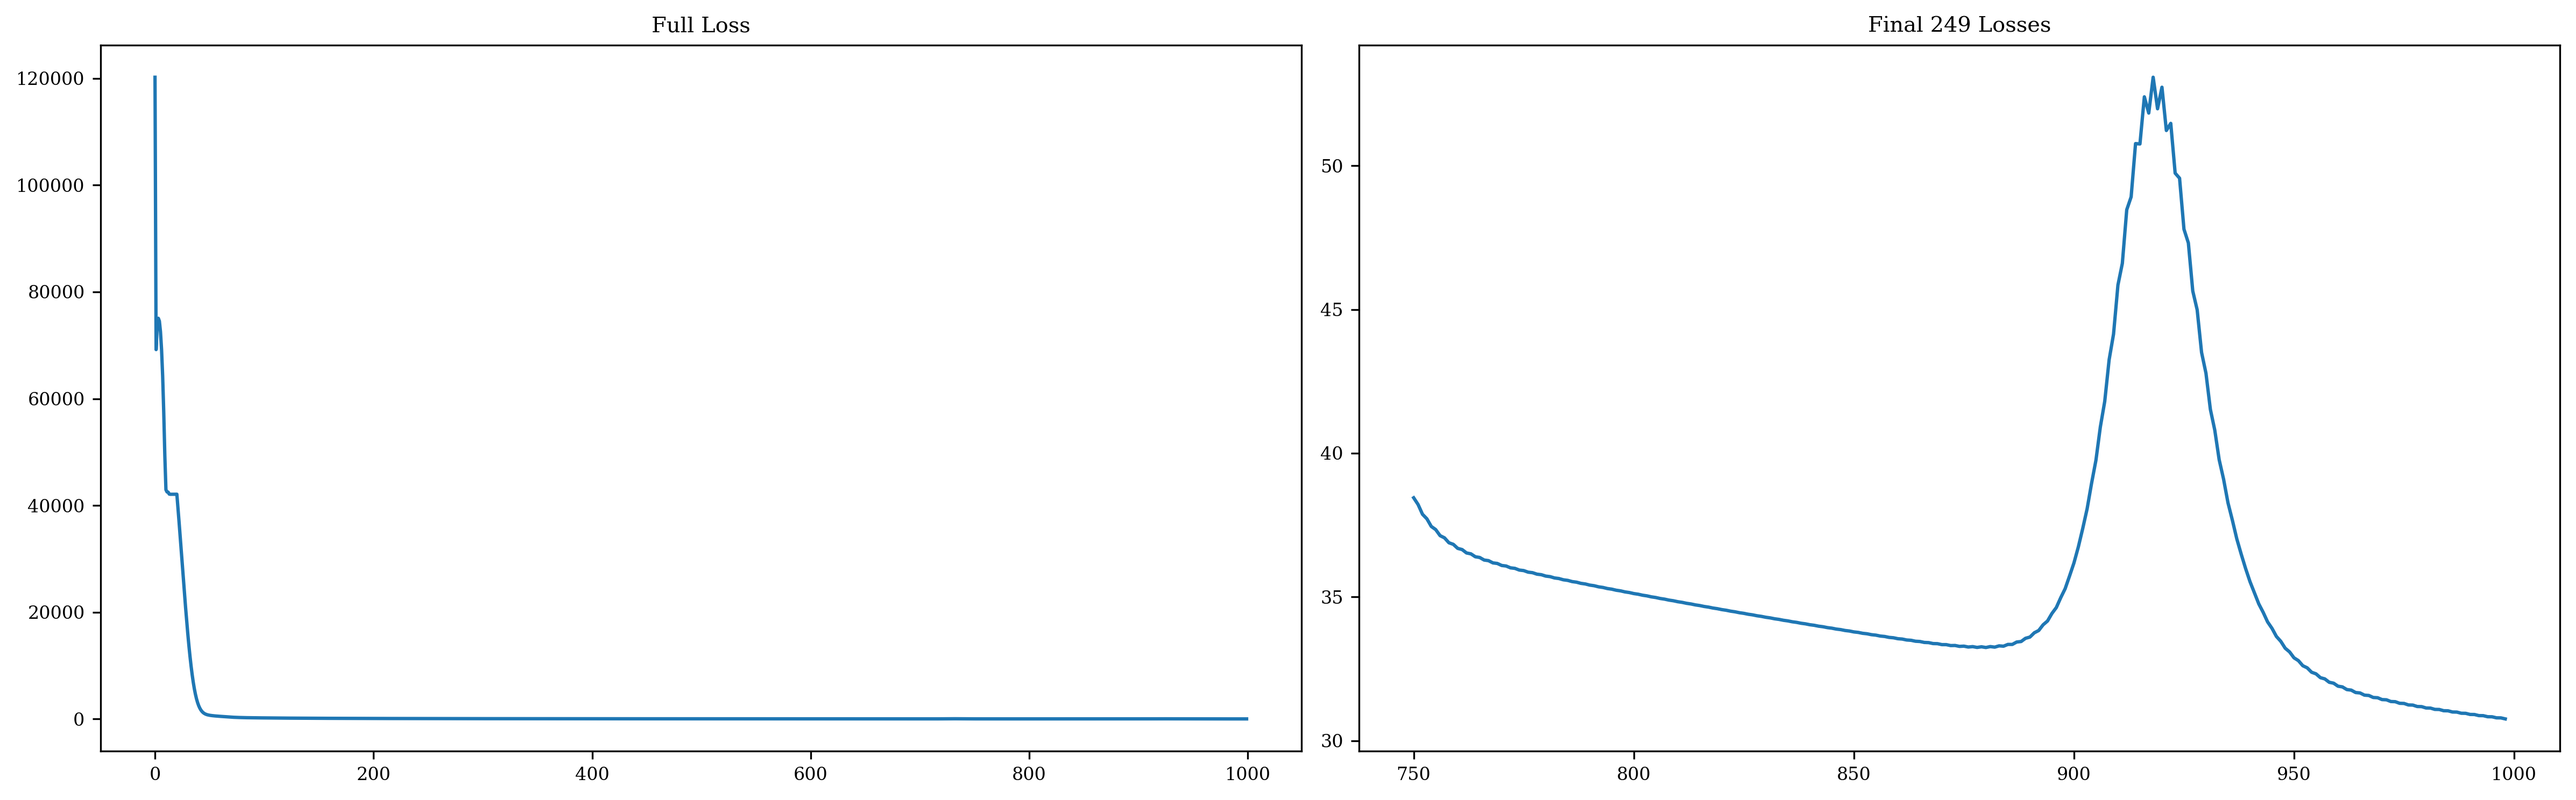
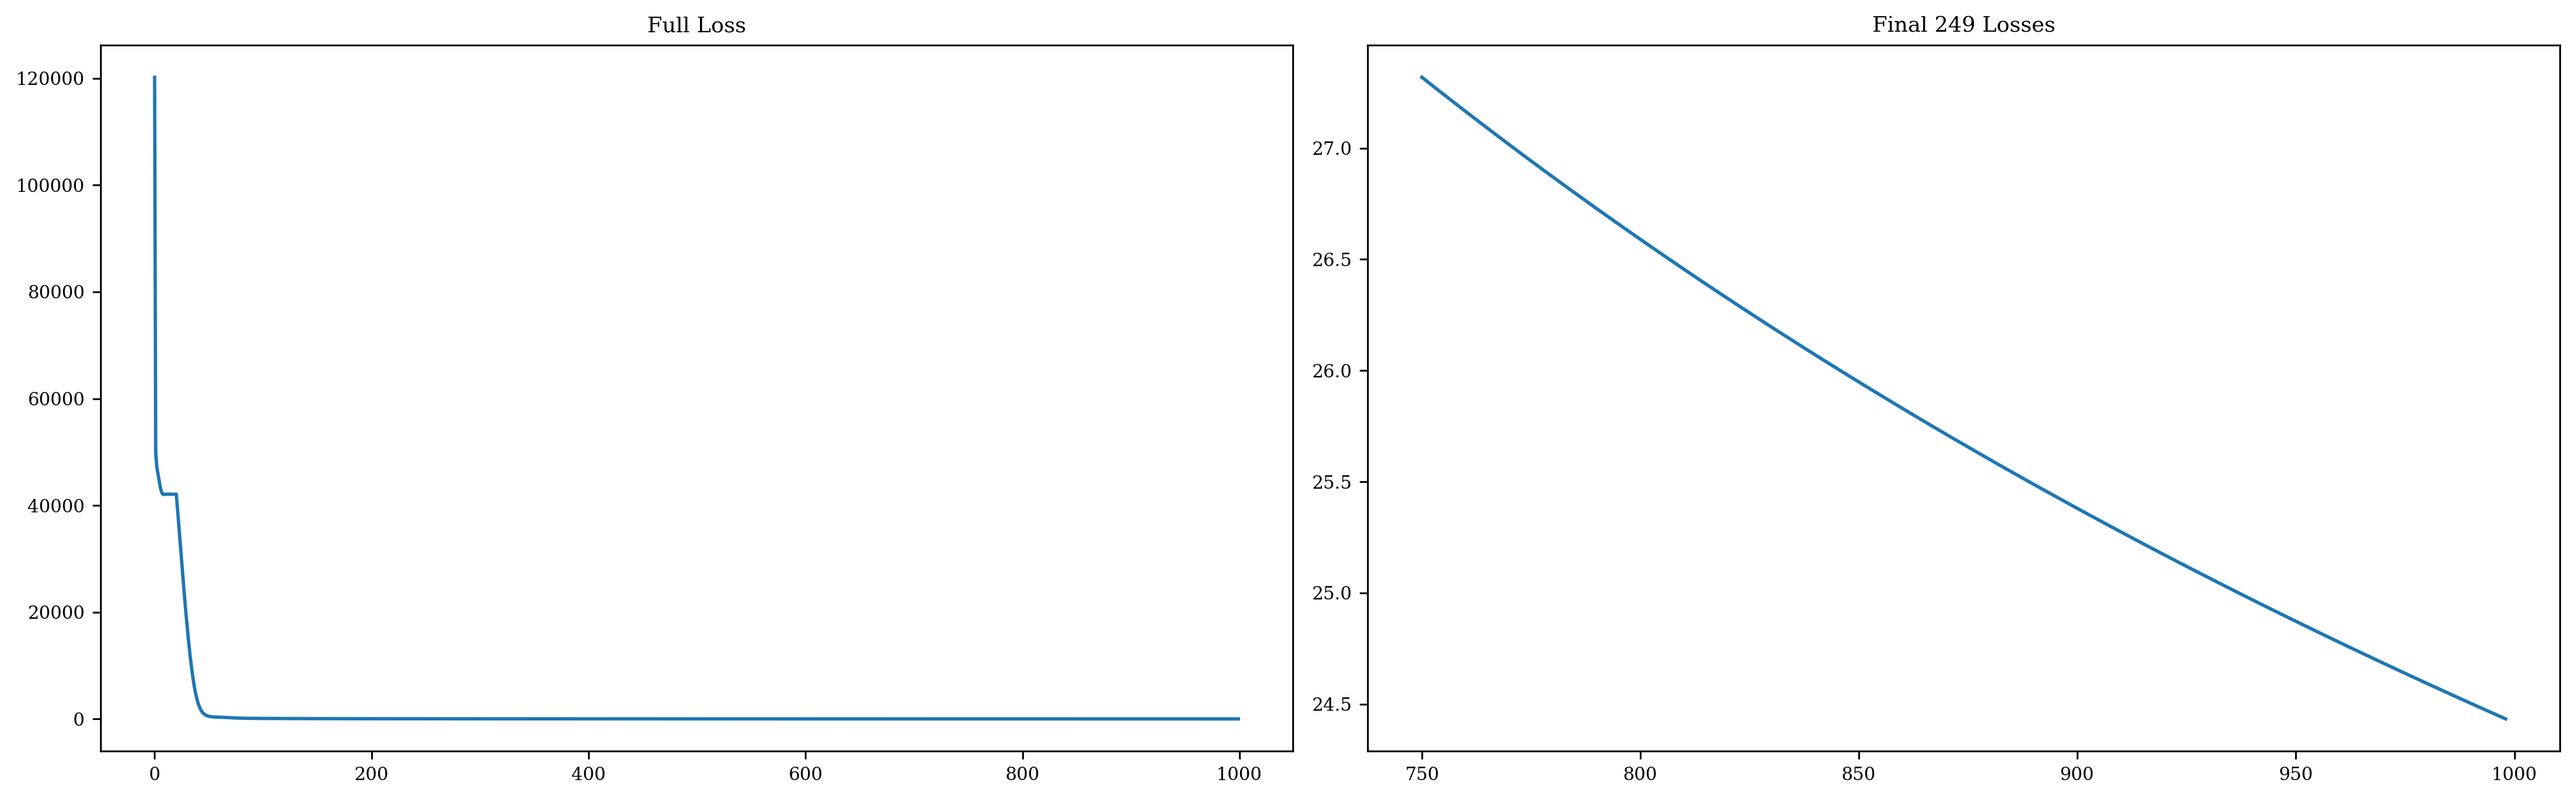
Example update

diff --git a/docs/examples/image_plane_fitting.md b/docs/examples/image_plane_fitting.md
@@ -252,7 +252,7 @@ For example, `sgd(lr=100, start=50)` will cause a parameter to start fitting aft
 ```python
 config = {
     "positions": sgd(lr=4e-2, start=0),
-    "fluxes": sgd(5e-2, 0),
+    "fluxes": sgd(2e-2, 0),
     "aberrations": sgd(5e0, 4),
     "spectra": sgd(1e-1, 10),
     "log_dist": adam(5e-2, 20),
@@ -271,7 +271,7 @@ Additionally, if the `spectra` parameter wanders outside of $[-1, 1]$, everythin
 ```python
 def norm_fn(model_params, args):
     params = model_params.params
-    if "log_distribution" in params.keys():
+    if "log_dist" in params.keys():
         for k, log_dist in params["log_dist"].items():
             distribution = 10**log_dist
             params["log_dist"][k] = np.log10(distribution / distribution.sum())
@@ -320,11 +320,11 @@ For this to work we will need to also pass the `dorito.stats.ramp_regularised_lo
 
 
 ```python
-args = {"reg_dict": {"TV": (1e0, dorito.stats.TV)}}
+args = {"reg_dict": {"TV": (5e0, dorito.stats.TV)}}
 ```
 
 ## Fitting
-We are almost ready to fit. Here initialise the `Trainer` class, from `amigo`, and populate the Fisher matrices. These Fisher matrices are not crucial: they are simply pre-calculated matrices which scale the loss space in order to improve convergence, but with plenty of learning rate tweaking you will reach the same result. This is the case for the `log_dist` parameter which does not have any pre-calculated matrices!
+We are almost ready to fit. Here we initialise the `Trainer` class from `amigo` and populate the Fisher matrices. These Fisher matrices are not crucial: they are simply pre-calculated matrices which scale the loss space in order to improve convergence, but with plenty of learning rate tweaking you will reach the same result. This is the case for the `log_dist` parameter which does not have any pre-calculated matrices!
 
 Lastly, we perform the fit!
 
@@ -373,10 +373,10 @@ result = trainer.train(
     Compiling Loss function...
     Compiling update function...
     
-    Initial_loss Loss: 120,196.78
-    Estimated run time: 0:20:14
-    Full Time: 0:21:55
-    Final Loss: 30.75
+    Initial_loss Loss: 120,196.88
+    Estimated run time: 0:20:16
+    Full Time: 0:21:54
+    Final Loss: 24.42
 
 
 # Results
@@ -425,43 +425,9 @@ for exp in exps:
     
 
 
-
-    
-![png](dorito_example_files/dorito_example_25_5.png)
-    
-
-
-    File 01373_017_02_04_2
-    Star IO
-    Filter F430M
-    nints 100
-    ngroups 18
-    
-
-
-
-    
-![png](dorito_example_files/dorito_example_25_7.png)
-    
-
-
-    File 01373_023_02_03_1
-    Star HD 228337
-    Filter F430M
-    nints 8
-    ngroups 12
-    
-
-
-
-    
-![png](dorito_example_files/dorito_example_25_9.png)
-    
-
-
 Nice. Some of the parameters are not entirely converged, and this can be improved by running the fit for more epochs, or by passing the fit model to another optimiser. We have seen some success with `optimistix.BFGS`. This is especially true of the `spectra` parameter for Io, where you can see the effect of spectral miscalibration in the residuals. 
 
-But this will do nicely for now — let's see our images! These look slightly under-regularised, as the volcanoes are much too close to single points.
+But this will do nicely for now — let's see our images!
 
 
 ```python
